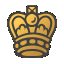
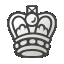
Renamed Images the right way and removed image tag in xml for every piece, cause it's the same for every object

diff --git a/Chess/PlayerView.xaml b/Chess/PlayerView.xaml
@@ -39,8 +39,8 @@
     <Grid x:Name="root">
         <Grid>
             <Grid.ColumnDefinitions>
+                <ColumnDefinition Width="3*"></ColumnDefinition>
                 <ColumnDefinition Width="2*"></ColumnDefinition>
-                <ColumnDefinition Width="*"></ColumnDefinition>
             </Grid.ColumnDefinitions>
             <Grid Width="200" Height="200">
                 <Border CornerRadius="200" BorderThickness="5" Background="#2D2D30">
@@ -70,25 +70,50 @@
                     <RowDefinition Height="*"></RowDefinition>
                     <RowDefinition Height="*"></RowDefinition>
                 </Grid.RowDefinitions>
-                <DockPanel Margin="10 10 10 10">
-                    <Grid DockPanel.Dock="Top" Background="#2D2D30" >
-                        <TextBlock Foreground="#FFDF66" FontWeight="Bold" Margin="5 5 5 5" HorizontalAlignment="Center">Pieces</TextBlock>
-                    </Grid>
-                    <ItemsControl ItemsSource="{Binding Player.LostPieces}">
-                        <ItemsControl.ItemsPanel>
-                            <ItemsPanelTemplate>
-                                <WrapPanel></WrapPanel>
-                            </ItemsPanelTemplate>
-                        </ItemsControl.ItemsPanel>
-                        <ItemsControl.ItemTemplate>
-                            <DataTemplate>
-                                <Button Style="{StaticResource BoardButtonStyle}">
-                                    <Image Width="30" Height="30" Source="{Binding Image, UpdateSourceTrigger=PropertyChanged, NotifyOnSourceUpdated=True}"></Image>
-                                </Button>
-                            </DataTemplate>
-                        </ItemsControl.ItemTemplate>
-                    </ItemsControl>
-                </DockPanel>
+                <Grid>
+                    <Grid.ColumnDefinitions>
+                        <ColumnDefinition Width="3*"></ColumnDefinition>
+                        <ColumnDefinition Width="1.5*"></ColumnDefinition>
+                    </Grid.ColumnDefinitions>
+                    <DockPanel Margin="10 10 10 10">
+                        <Grid DockPanel.Dock="Top" Background="#2D2D30" >
+                            <TextBlock Foreground="#FFDF66" FontWeight="Bold" Margin="5 5 5 5" HorizontalAlignment="Center">Pieces</TextBlock>
+                        </Grid>
+                        <ItemsControl ItemsSource="{Binding Player.LostPieces}">
+                            <ItemsControl.ItemsPanel>
+                                <ItemsPanelTemplate>
+                                    <WrapPanel></WrapPanel>
+                                </ItemsPanelTemplate>
+                            </ItemsControl.ItemsPanel>
+                            <ItemsControl.ItemTemplate>
+                                <DataTemplate>
+                                    <Button Style="{StaticResource BoardButtonStyle}">
+                                        <Image Width="30" Height="30" Source="{Binding Image, UpdateSourceTrigger=PropertyChanged, NotifyOnSourceUpdated=True}"></Image>
+                                    </Button>
+                                </DataTemplate>
+                            </ItemsControl.ItemTemplate>
+                        </ItemsControl>
+                    </DockPanel>
+                    <DockPanel Grid.Column="1" Margin="10 10 10 10">
+                        <Grid DockPanel.Dock="Top" Background="#2D2D30" >
+                            <TextBlock Foreground="#FFDF66" FontWeight="Bold" Margin="5 5 5 5" HorizontalAlignment="Center">Promotion</TextBlock>
+                        </Grid>
+                        <ItemsControl ItemsSource="{Binding Player.LostPieces}">
+                            <ItemsControl.ItemsPanel>
+                                <ItemsPanelTemplate>
+                                    <WrapPanel></WrapPanel>
+                                </ItemsPanelTemplate>
+                            </ItemsControl.ItemsPanel>
+                            <ItemsControl.ItemTemplate>
+                                <DataTemplate>
+                                    <Button Style="{StaticResource BoardButtonStyle}">
+                                        <Image Width="30" Height="30" Source="{Binding Image, UpdateSourceTrigger=PropertyChanged, NotifyOnSourceUpdated=True}"></Image>
+                                    </Button>
+                                </DataTemplate>
+                            </ItemsControl.ItemTemplate>
+                        </ItemsControl>
+                    </DockPanel>
+                </Grid>
                 <DockPanel Grid.Row="1" Margin="10 10 10 10">
                     <Grid DockPanel.Dock="Top" Background="#2D2D30" >
                         <TextBlock FontWeight="Bold" Foreground="#FFDF66" Margin="5 5 5 5" HorizontalAlignment="Center">Settings</TextBlock>

diff --git a/Chess/ViewModels/PlayerViewModel.cs b/Chess/ViewModels/PlayerViewModel.cs
@@ -1,4 +1,5 @@
 using Library;
+using Library.Pieces;
 using System;
 using System.Collections.Generic;
 using System.Collections.ObjectModel;
@@ -19,6 +20,12 @@ namespace Chess.ViewModels
         public PlayerViewModel(Board board, Color color)
         {
             Player = new Player(board, color);
+
+            Promotables = new ObservableCollection<Piece>();
+            Promotables.Add(new Queen() { Color = color });
+            Promotables.Add(new Knight() { Color = color });
+            Promotables.Add(new Bishop() { Color = color });
+            Promotables.Add(new Rook() { Color = color });
 
             ReviveCommand = new ActionCommand(ReviveAction);
 
@@ -43,6 +50,8 @@ namespace Chess.ViewModels
         public Player Player { get; set; }
 
         public ICommand ReviveCommand { get; set; }
+
+        public ObservableCollection<Piece> Promotables { get; set; }
 
         public void ResetTimer()
         {

diff --git a/Library/Pieces/Queen.cs b/Library/Pieces/Queen.cs
@@ -6,6 +6,8 @@ namespace Library.Pieces
 {
     public class Queen : Piece
     {
+        private Color color;
+
         public Queen()
         {
             Directions = new List<Point>
@@ -18,8 +20,20 @@ namespace Library.Pieces
                 new Point { PosX = -1, PosY = 0 },
                 new Point { PosX = 0, PosY = -1 },
                 new Point { PosX = 0, PosY = 1 },
-
             };
+
+            Image = @"Images\Queen_B.png";
+        }
+
+        public override Color Color
+        {
+            get { return color; }
+            set
+            {
+                color = value;
+                if (Color == Color.White)
+                    Image = @"Images\Queen_W.png";
+            }
         }
 
         public override event EventHandler UpgradePiece;

diff --git a/Library/Pieces/Bishop.cs b/Library/Pieces/Bishop.cs
@@ -6,6 +6,8 @@ namespace Library.Pieces
 {
     public class Bishop : Piece
     {
+        private Color color;
+
         public Bishop()
         {
             Directions = new List<Point>
@@ -15,6 +17,19 @@ namespace Library.Pieces
                 new Point { PosX = -1, PosY = -1 },
                 new Point { PosX = -1, PosY = 1 },
             };
+
+            Image = @"Images\Bishop_B.png";
+        }
+
+        public override Color Color
+        {
+            get { return color; }
+            set
+            {
+                color = value;
+                if (Color == Color.White)
+                    Image = @"Images\Bishop_W.png";
+            }
         }
 
         public override event EventHandler UpgradePiece;

diff --git a/Library/Pieces/Knight.cs b/Library/Pieces/Knight.cs
@@ -6,6 +6,8 @@ namespace Library.Pieces
 {
     public class Knight : Piece
     {
+        private Color color;
+
         public Knight()
         {
             Directions = new List<Point>
@@ -19,6 +21,19 @@ namespace Library.Pieces
                 new Point { PosX = 2, PosY = -1 },
                 new Point { PosX = -2, PosY = 1 },
             };
+
+            Image = @"Images\Knight_B.png";
+        }
+
+        public override Color Color
+        {
+            get { return color; }
+            set
+            {
+                color = value;
+                if (Color == Color.White)
+                    Image = @"Images\Knight_W.png";
+            }
         }
 
         public override event EventHandler UpgradePiece;

diff --git a/Library/Pieces/Rook.cs b/Library/Pieces/Rook.cs
@@ -6,6 +6,8 @@ namespace Library.Pieces
 {
     public class Rook : Piece
     {
+        private Color color;
+
         public Rook()
         {
             Directions = new List<Point>
@@ -15,6 +17,19 @@ namespace Library.Pieces
                 new Point { PosX = 0, PosY = -1 },
                 new Point { PosX = 0, PosY = 1 },
             };
+
+            Image = @"Images\Rook_B.png";
+        }
+
+        public override Color Color
+        {
+            get { return color; }
+            set
+            {
+                color = value;
+                if (Color == Color.White)
+                    Image = @"Images\Rook_W.png";
+            }
         }
 
         public override event EventHandler UpgradePiece;

diff --git a/Library/Pieces/King.cs b/Library/Pieces/King.cs
@@ -7,6 +7,8 @@ namespace Library.Pieces
 {
     public class King : Piece
     {
+        private Color color;
+
         public King()
         {
             Directions = new List<Point> 
@@ -21,6 +23,19 @@ namespace Library.Pieces
                 new Point { PosX = 0, PosY = 1 },
 
             };
+
+            Image = @"Images\King_B.png";
+        }
+
+        public override Color Color
+        {
+            get { return color; }
+            set
+            {
+                color = value;
+                if (Color == Color.White)
+                    Image = @"Images\King_W.png";
+            }
         }
 
         public override event EventHandler UpgradePiece;

diff --git a/Library/Pieces/Pawn.cs b/Library/Pieces/Pawn.cs
@@ -18,6 +18,8 @@ namespace Library.Pieces
                 new Point { PosX = -1, PosY = -1 },
                 new Point { PosX = 0, PosY = -1 },
             };
+
+            Image = @"Images\Pawn_B.png";
         }
 
         public override Color Color
@@ -34,6 +36,8 @@ namespace Library.Pieces
                         new Point { PosX = -1, PosY = 1 },
                         new Point { PosX = 0, PosY = 1 },
                     };
+
+                    Image = @"Images\Pawn_W.png";
                 }
             }
         }
